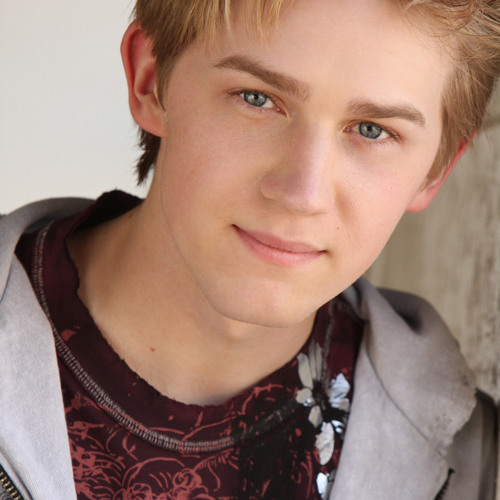
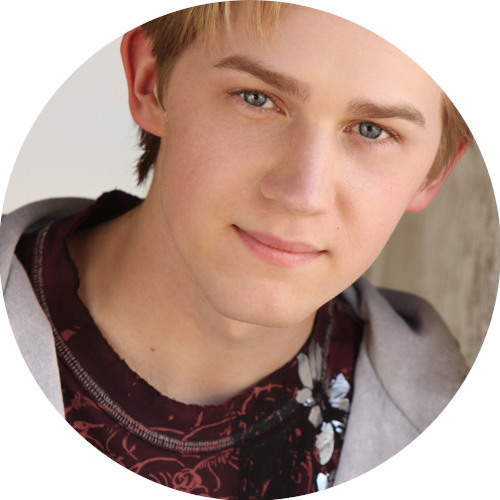
Add profile picture for user on setup + home screen
- User can choose a picture to show it on home screen

diff --git a/lib/Profile.dart b/lib/Profile.dart
@@ -12,6 +12,7 @@ import 'History.dart';
 import 'package:flutter_colorpicker/flutter_colorpicker.dart';
 import 'SetLanguage.dart';
 import 'package:restart_app/restart_app.dart';
+import 'package:file_picker/file_picker.dart';
 
 class Profile extends StatefulWidget{
   @override
@@ -192,11 +193,14 @@ class _ProfileState extends State<Profile>{
                       writeJson("name", name.text);
 
                     });
-                    String colorString =color.toString(); // Color(0x12345678)
+                    String colorString = color.toString(); // Color(0x12345678)
                     String valueString = colorString.split('(0x')[1].split(')')[0]; // kind of hacky..
                     writeJson("color", valueString);
                     readJson();
-                    Restart.restartApp();
+                    Navigator.push(
+                        context,
+                        MaterialPageRoute(builder: (context) => ProfilePhoto(language, currentLanguage)
+                        ));
                     },
                   icon: Icon(Icons.check, color: Colors.white,),
                 ),
@@ -208,6 +212,183 @@ class _ProfileState extends State<Profile>{
         ],
       ),
 
+    );
+  }
+}
+
+class ProfilePhoto extends StatefulWidget{
+  @override
+  Map <dynamic, dynamic> language = {};
+  String currentLanguage = "";
+  ProfilePhoto(this.language, this.currentLanguage);
+  _ProfilePhotoState createState() => _ProfilePhotoState(language, currentLanguage);
+}
+
+class _ProfilePhotoState extends State<ProfilePhoto>{
+  @override
+  Map <dynamic, dynamic> language = {};
+  Map <dynamic, dynamic> user = {};
+  String currentLanguage = "";
+  _ProfilePhotoState(this.language, this.currentLanguage);
+  String path = "";
+  String image = "";
+  String jsonFile = "user.json";
+  String _jsonFile = "";
+
+  // Get app local path for App data
+  Future<String> get _localPath async {
+    final directory = await getApplicationDocumentsDirectory();
+    return directory.path;
+  }
+
+  // Get file object with full path
+  Future<File> get _localFile async {
+    final path = await _localPath;
+    return File('$path/$jsonFile');
+  }
+
+  void _readJson() async {
+    final filePath = await _localFile;
+
+    // Read current map
+    _jsonFile = await filePath.readAsString();
+
+    // Assign map string into map object
+    user = jsonDecode(_jsonFile);
+
+    //
+  }
+
+  void _writeJson(String key, dynamic value) async{
+    final filePath = await _localFile;
+
+    // Create temp map
+    Map<String, dynamic> myPhoto = {};
+
+    // Save to new map
+    myPhoto[key] = value;
+
+    // Overrite old map
+    user.addAll(myPhoto);
+
+    // Save old map
+    _jsonFile = jsonEncode(user);
+
+    // Overwrite map
+    filePath.writeAsString(_jsonFile);
+    print(_jsonFile);
+
+
+    //
+  }
+
+  void pickImage() async {
+    bool exists = false;
+
+    // User can choose a file from storage
+    final result = await FilePicker.platform.pickFiles(
+      type: FileType.custom,
+      allowedExtensions: ['jpg', 'png', 'gif'],
+      allowMultiple: false,
+    );
+
+
+    // Check if the user closed the file picker
+    if (result != null) {
+      PlatformFile myFile = result.files.first;
+      exists = true;
+
+
+      if (exists) {
+        setState(() async {
+          path = myFile.path!;
+
+          // Check image extensions
+
+          if (path.contains('.png')){
+            await File(path).rename(
+                '/data/user/0/com.daviiid99.material_dialer/app_flutter/profile.png');
+            image = '/data/user/0/com.daviiid99.material_dialer/app_flutter/profile.png';
+
+          }  else if (path.contains('.jpg')){
+            await File(path).rename(
+                '/data/user/0/com.daviiid99.material_dialer/app_flutter/profile.jpg');
+            image = '/data/user/0/com.daviiid99.material_dialer/app_flutter/profile.jpg';
+          } else {
+            await File(path).rename(
+                '/data/user/0/com.daviiid99.material_dialer/app_flutter/profile.gif');
+            image =
+            '/data/user/0/com.daviiid99.material_dialer/app_flutter/profile.gif';
+          }
+
+          _writeJson("photo", image);
+          user["photo"] = image;
+          Restart.restartApp();
+
+        });
+      }
+    }
+  }
+
+  void initState(){
+    _readJson();
+    super.initState();
+  }
+
+  Widget build(BuildContext context){
+
+    return Scaffold(
+      backgroundColor: Colors.black,
+      appBar: AppBar(
+        backgroundColor: Colors.black,
+        title: Text(
+            language[currentLanguage]["Profile"]["title"],
+            style: TextStyle(
+                color: Colors.white),
+        ),
+        
+      ),
+
+      body: Column(
+        children: [
+          SizedBox(height: 5,),
+          Text(
+            language[currentLanguage]["Profile"]["subtitle_picture"] + "\n",
+            style: TextStyle(
+              color:  Colors.white,
+              fontSize: 25
+            ),
+          ),
+
+          Text(
+            language[currentLanguage]["Profile"]["subtitle_picture2"] + "\n",
+            style: TextStyle(
+                color:  Colors.white,
+                fontSize: 15
+            ),
+          ),
+
+          Image.asset(
+              "assets/images/unnamed.png",
+
+          ),
+
+          SizedBox(height: 25,),
+
+
+        ElevatedButton(
+          child: Text(
+            language[currentLanguage]["Profile"]["button2"]
+          ),
+
+          onPressed: (){
+            pickImage();
+          }
+
+        )
+
+        ],
+      ),
     );
   }
 }

diff --git a/lib/Dialer.dart b/lib/Dialer.dart
@@ -16,6 +16,7 @@ import 'package:intl/intl.dart';
 import 'package:quick_actions/quick_actions.dart';
 import 'MaterialDIaler.dart';
 import 'dart:math';
+import 'Profile.dart';
 
 class Dialer extends StatefulWidget{
 
@@ -105,7 +106,10 @@ class _DialerState extends State<Dialer>{
         "title" : "Creating Your Profile",
         "subtitle" : "Tell Us About You",
         "subtitle2" : "We need your name before continue",
-        "button" : "Save profile"
+        "button" : "Save profile",
+        "button2" : "Choose picture",
+        "subtitle_picture" : "Set Your Profile Picture",
+        "subtitle_picture2" : "Choose a picture before continue"
       },
 
       "Settings" : {
@@ -1392,6 +1396,28 @@ class _DialerState extends State<Dialer>{
           }
 
         ),
+
+
+        title: Row(
+            mainAxisAlignment: MainAxisAlignment.center,
+        children : <Widget>[
+          Align(
+            alignment: Alignment.center,
+          ),
+        InkWell(
+            onTap: () => Navigator.push(
+                context,
+                MaterialPageRoute(builder: (context) => ProfilePhoto(language, currentLanguage)
+                )),
+            child: CircleAvatar(
+              backgroundColor: Colors.transparent,
+              child: SizedBox(
+              width: 60,
+              height: 60,
+              child: ClipOval(
+        child: Image.file(File(user["photo"]), fit: BoxFit.cover,),
+        ),
+              )))]),
         backgroundColor: colors[mode_counter],
         actions:  [
           IconButton(

diff --git a/lib/Contacts.dart b/lib/Contacts.dart
@@ -366,8 +366,6 @@ void exportContacts(String path) async{
     ScaffoldMessenger.of(context).showSnackBar(SnackBar(
       content: language[current_language]["Contacts"]["import"],
     ));
-
-
   }
 
   Future<void> deleteFile(File file) async {
@@ -962,17 +960,18 @@ void exportContacts(String path) async{
             tileColor: colores[mode_counter] ,
             textColor: fonts[mode_counter],
             leading:  CircleAvatar(
-              minRadius: 50,
-              maxRadius: 75,
               backgroundColor: Colors.transparent,
-              child : ClipRRect(
-              borderRadius: BorderRadius.circular(8.0),
+              child: SizedBox(
+              width: 60,
+              height: 60,
+              child: ClipOval(
               child: Image.file(File(
                    mapa[telefonos[index]][1],
                  ),
                   fit: BoxFit.fitHeight
                 ),
                ),
+            ),
             ),
                   onTap: () {
                     createContactView(telefonos[index], contactos[index],  photos[index], index);
